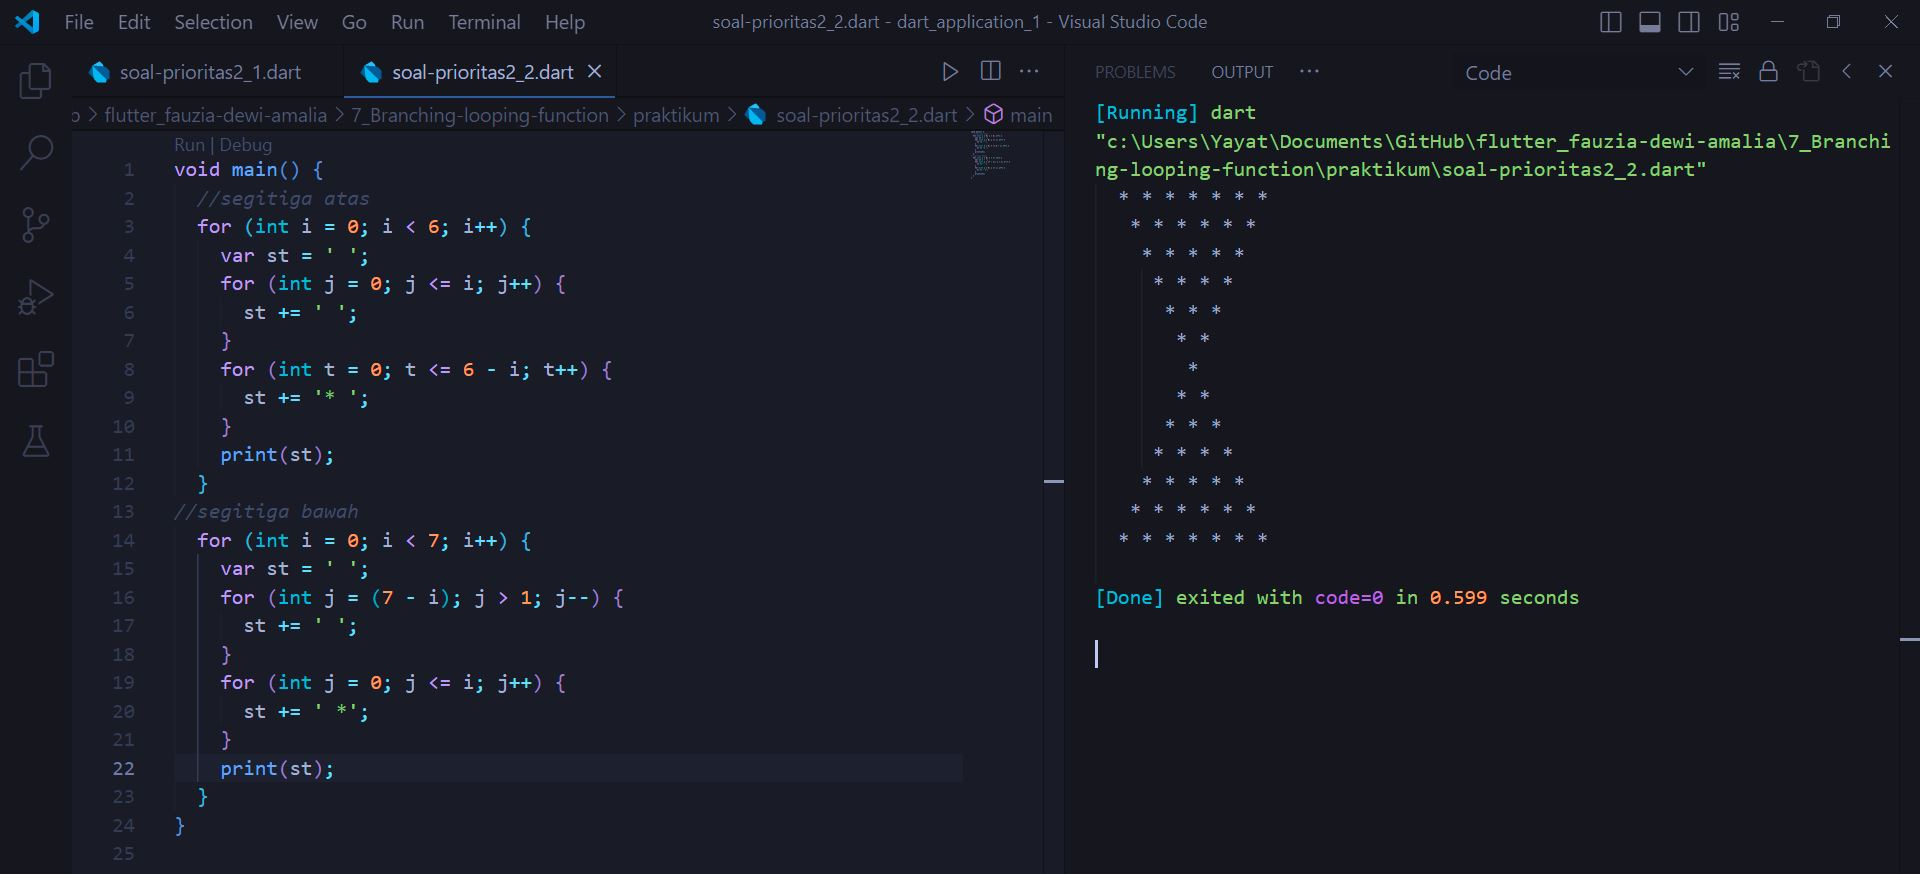
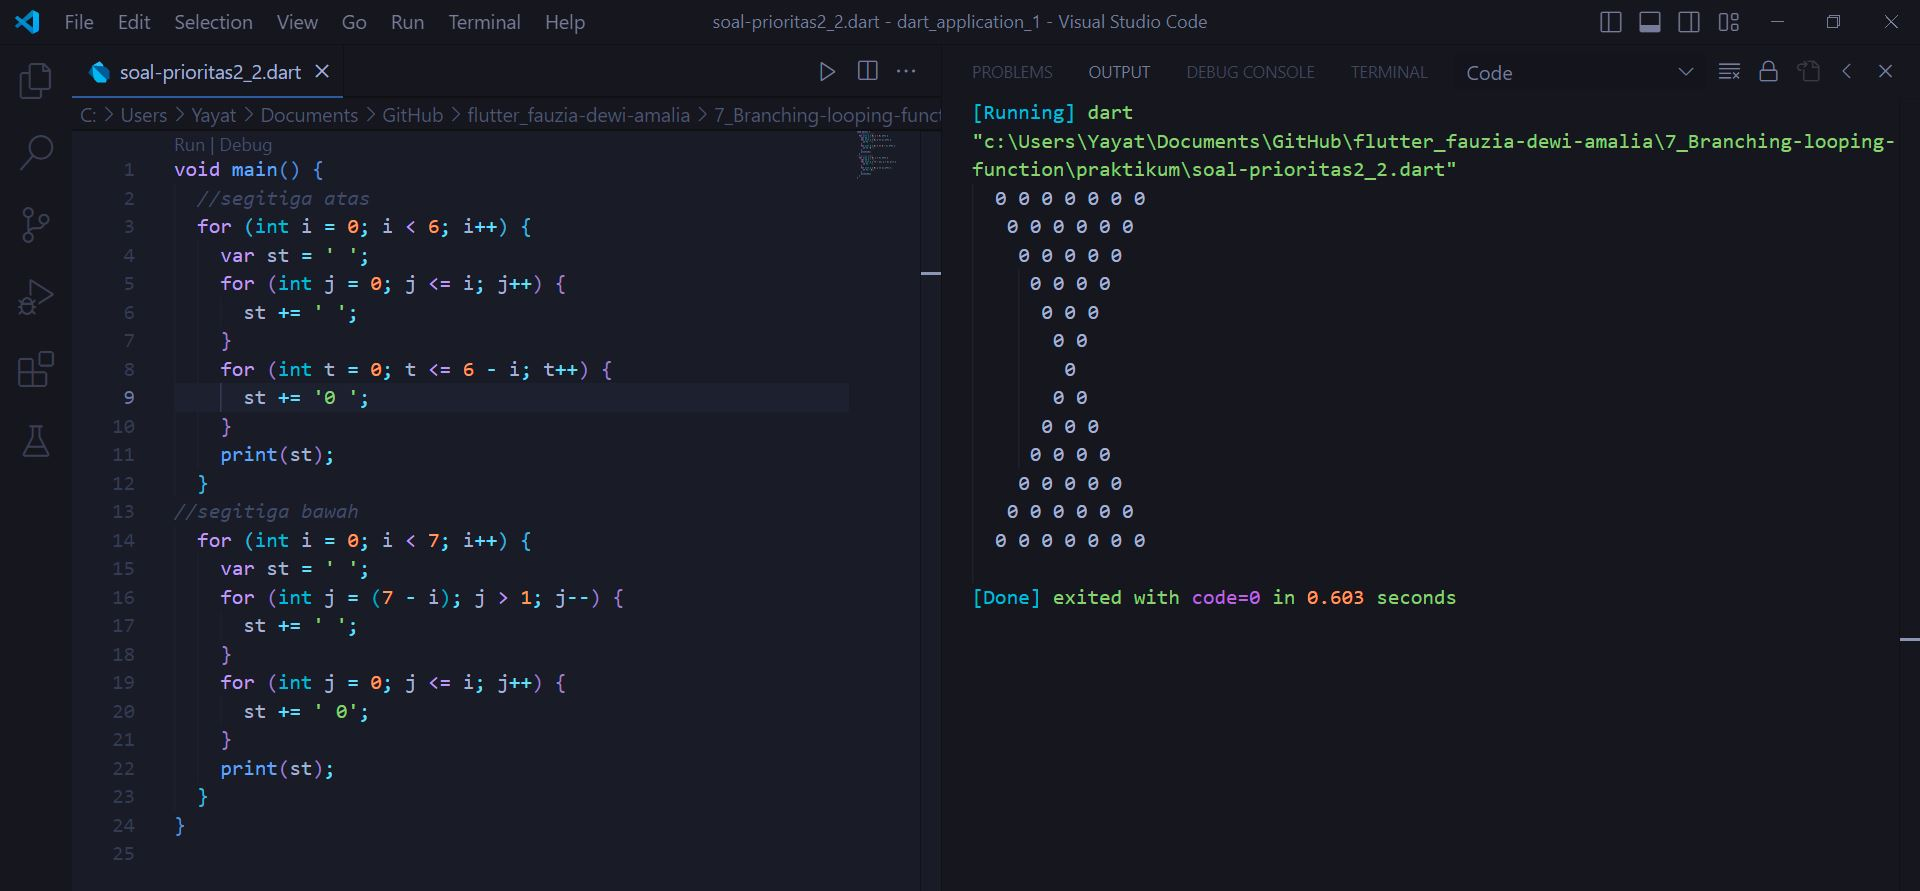
update

diff --git a/7_Branching-looping-function/praktikum/soal-prioritas2_2.dart b/7_Branching-looping-function/praktikum/soal-prioritas2_2.dart
@@ -6,7 +6,7 @@ void main() {
       st += ' ';
     }
     for (int t = 0; t <= 6 - i; t++) {
-      st += '* ';
+      st += '0 ';
     }
     print(st);
   }
@@ -17,7 +17,7 @@ void main() {
       st += ' ';
     }
     for (int j = 0; j <= i; j++) {
-      st += ' *';
+      st += ' 0';
     }
     print(st);
   }
